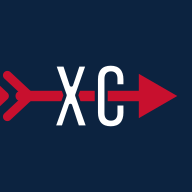
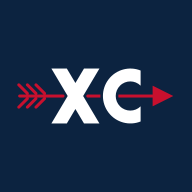
Add files via upload

Changed region(s): [[0.0, 0.3125, 0.9375, 0.6875]]

diff --git a/index.html b/index.html
@@ -97,7 +97,8 @@ button{font:inherit;color:inherit;background:none;border:none;cursor:pointer;tou
 @keyframes splLand{from{opacity:0;transform:scale(.84)}to{opacity:1;transform:scale(1)}}
 @keyframes splFade{from{opacity:0}to{opacity:1}}
 .spl-arrow{animation:splFly .78s cubic-bezier(.16,.84,.32,1) backwards}
-.spl-xc{animation:splLand .38s ease-out .66s backwards;transform-origin:128px 46px}
+/* 4.75: the new mark, XC centred at 94,36 in its 188 by 72 box. */
+.spl-xc{animation:splLand .38s ease-out .66s backwards;transform-origin:94px 36px}
 .spl-word{animation:splFade .55s ease-out 1.08s backwards}
 @media (prefers-reduced-motion:reduce){
   .spl-arrow,.spl-xc,.spl-word{animation:none}
@@ -916,14 +917,11 @@ body.haslive .sheet:not(.compact) .sheet-in{max-height:calc(88dvh - var(--striph
 </head>
 <body>
 <div id="splash">
-<svg class="spl-mark" viewBox="0 0 258 92" xmlns="http://www.w3.org/2000/svg" aria-hidden="true">
+<svg class="spl-mark" viewBox="0 0 188 72" xmlns="http://www.w3.org/2000/svg" aria-hidden="true">
 <g class="spl-arrow">
-<path d="M6 26 L24 46 L6 66" fill="none" stroke="#C8102E" stroke-width="7" stroke-linecap="round" stroke-linejoin="round"/>
-<path d="M28 26 L46 46 L28 66" fill="none" stroke="#C8102E" stroke-width="7" stroke-linecap="round" stroke-linejoin="round"/>
-<line x1="40" y1="46" x2="214" y2="46" stroke="#C8102E" stroke-width="8" stroke-linecap="round"/>
-<polygon points="212,26 252,46 212,66" fill="#C8102E"/>
+<path d="M4 23 14 33M14 23 24 33M24 23 34 33M4 49 14 39M14 49 24 39M24 49 34 39M5 36H162" fill="none" stroke="#C8102E" stroke-width="3.5" stroke-linecap="round"/><polygon points="160,24 184,36 160,48" fill="#C8102E"/>
 </g>
-<path class="spl-xc" d="M109.321 45.471999999999994 101.335 22.89999999999999H108.991L113.875 37.81599999999999H114.00699999999999L119.023 22.89999999999999H125.887L117.901 45.471999999999994L126.28299999999999 69.1H118.627L113.347 52.995999999999995H113.21499999999999L107.803 69.1H100.939Z M132.753 58.407999999999994V33.59199999999999Q132.753 28.179999999999993 135.492 25.209999999999994Q138.231 22.239999999999995 143.445 22.239999999999995Q148.659 22.239999999999995 151.398 25.209999999999994Q154.137 28.179999999999993 154.137 33.59199999999999V38.47599999999999H147.273V33.129999999999995Q147.273 28.83999999999999 143.64299999999997 28.83999999999999Q140.01299999999998 28.83999999999999 140.01299999999998 33.129999999999995V58.93599999999999Q140.01299999999998 63.16 143.64299999999997 63.16Q147.273 63.16 147.273 58.93599999999999V51.873999999999995H154.137V58.407999999999994Q154.137 63.81999999999999 151.398 66.78999999999999Q148.659 69.75999999999999 143.445 69.75999999999999Q138.231 69.75999999999999 135.492 66.78999999999999Q132.753 63.81999999999999 132.753 58.407999999999994Z" fill="#FFFFFF" stroke="#0C2340" stroke-width="2.6" stroke-linejoin="round" paint-order="stroke"/>
+<path class="spl-xc" d="M42 4H60L98 68H80Z M80 4H98L60 68H42Z M146 6.3A32 32 0 1 0 146 65.7L146 48.04A17 17 0 1 1 146 23.96Z" fill="#FFFFFF" stroke="#0C2340" stroke-width="6" stroke-linejoin="round" paint-order="stroke"/>
 </svg>
   <div class="spl-word"><div class="spl-the">THE</div><div class="spl-chute">CHUTE</div></div>
 </div>
@@ -933,7 +931,7 @@ body.haslive .sheet:not(.compact) .sheet-in{max-height:calc(88dvh - var(--striph
 <!-- SEASON AND RUNNERS, 4.57 -->
 <section class="screen" id="season">
   <div class="bar homebar">
-    <svg class="mark" viewBox="0 0 258 92" aria-hidden="true"><path d="M6 26 L24 46 L6 66" fill="none" stroke="#C8102E" stroke-width="9" stroke-linecap="round" stroke-linejoin="round"/><path d="M28 26 L46 46 L28 66" fill="none" stroke="#C8102E" stroke-width="9" stroke-linecap="round" stroke-linejoin="round"/><line x1="40" y1="46" x2="214" y2="46" stroke="#C8102E" stroke-width="10" stroke-linecap="round"/><polygon points="212,26 252,46 212,66" fill="#C8102E"/><path d="M109.321 45.471999999999994 101.335 22.89999999999999H108.991L113.875 37.81599999999999H114.00699999999999L119.023 22.89999999999999H125.887L117.901 45.471999999999994L126.28299999999999 69.1H118.627L113.347 52.995999999999995H113.21499999999999L107.803 69.1H100.939Z M132.753 58.407999999999994V33.59199999999999Q132.753 28.179999999999993 135.492 25.209999999999994Q138.231 22.239999999999995 143.445 22.239999999999995Q148.659 22.239999999999995 151.398 25.209999999999994Q154.137 28.179999999999993 154.137 33.59199999999999V38.47599999999999H147.273V33.129999999999995Q147.273 28.83999999999999 143.64299999999997 28.83999999999999Q140.01299999999998 28.83999999999999 140.01299999999998 33.129999999999995V58.93599999999999Q140.01299999999998 63.16 143.64299999999997 63.16Q147.273 63.16 147.273 58.93599999999999V51.873999999999995H154.137V58.407999999999994Q154.137 63.81999999999999 151.398 66.78999999999999Q148.659 69.75999999999999 143.445 69.75999999999999Q138.231 69.75999999999999 135.492 66.78999999999999Q132.753 63.81999999999999 132.753 58.407999999999994Z" fill="#FFFFFF" stroke="#0C2340" stroke-width="2.6" stroke-linejoin="round" paint-order="stroke"/></svg>
+    <svg class="mark" viewBox="0 0 188 72" aria-hidden="true"><path d="M4 23 14 33M14 23 24 33M24 23 34 33M4 49 14 39M14 49 24 39M24 49 34 39M5 36H162" fill="none" stroke="#C8102E" stroke-width="3.5" stroke-linecap="round"/><polygon points="160,24 184,36 160,48" fill="#C8102E"/><path d="M42 4H60L98 68H80Z M80 4H98L60 68H42Z M146 6.3A32 32 0 1 0 146 65.7L146 48.04A17 17 0 1 1 146 23.96Z" fill="#FFFFFF" stroke="#0C2340" stroke-width="6" stroke-linejoin="round" paint-order="stroke"/></svg>
     <span class="wordmark">SEASON</span>
     <span class="season"></span>
   </div>
@@ -949,7 +947,7 @@ body.haslive .sheet:not(.compact) .sheet-in{max-height:calc(88dvh - var(--striph
 </section>
 <section class="screen" id="runners">
   <div class="bar homebar">
-    <svg class="mark" viewBox="0 0 258 92" aria-hidden="true"><path d="M6 26 L24 46 L6 66" fill="none" stroke="#C8102E" stroke-width="9" stroke-linecap="round" stroke-linejoin="round"/><path d="M28 26 L46 46 L28 66" fill="none" stroke="#C8102E" stroke-width="9" stroke-linecap="round" stroke-linejoin="round"/><line x1="40" y1="46" x2="214" y2="46" stroke="#C8102E" stroke-width="10" stroke-linecap="round"/><polygon points="212,26 252,46 212,66" fill="#C8102E"/><path d="M109.321 45.471999999999994 101.335 22.89999999999999H108.991L113.875 37.81599999999999H114.00699999999999L119.023 22.89999999999999H125.887L117.901 45.471999999999994L126.28299999999999 69.1H118.627L113.347 52.995999999999995H113.21499999999999L107.803 69.1H100.939Z M132.753 58.407999999999994V33.59199999999999Q132.753 28.179999999999993 135.492 25.209999999999994Q138.231 22.239999999999995 143.445 22.239999999999995Q148.659 22.239999999999995 151.398 25.209999999999994Q154.137 28.179999999999993 154.137 33.59199999999999V38.47599999999999H147.273V33.129999999999995Q147.273 28.83999999999999 143.64299999999997 28.83999999999999Q140.01299999999998 28.83999999999999 140.01299999999998 33.129999999999995V58.93599999999999Q140.01299999999998 63.16 143.64299999999997 63.16Q147.273 63.16 147.273 58.93599999999999V51.873999999999995H154.137V58.407999999999994Q154.137 63.81999999999999 151.398 66.78999999999999Q148.659 69.75999999999999 143.445 69.75999999999999Q138.231 69.75999999999999 135.492 66.78999999999999Q132.753 63.81999999999999 132.753 58.407999999999994Z" fill="#FFFFFF" stroke="#0C2340" stroke-width="2.6" stroke-linejoin="round" paint-order="stroke"/></svg>
+    <svg class="mark" viewBox="0 0 188 72" aria-hidden="true"><path d="M4 23 14 33M14 23 24 33M24 23 34 33M4 49 14 39M14 49 24 39M24 49 34 39M5 36H162" fill="none" stroke="#C8102E" stroke-width="3.5" stroke-linecap="round"/><polygon points="160,24 184,36 160,48" fill="#C8102E"/><path d="M42 4H60L98 68H80Z M80 4H98L60 68H42Z M146 6.3A32 32 0 1 0 146 65.7L146 48.04A17 17 0 1 1 146 23.96Z" fill="#FFFFFF" stroke="#0C2340" stroke-width="6" stroke-linejoin="round" paint-order="stroke"/></svg>
     <span class="wordmark">RUNNERS</span>
     <span class="season"></span>
   </div>
@@ -977,7 +975,7 @@ body.haslive .sheet:not(.compact) .sheet-in{max-height:calc(88dvh - var(--striph
 <!-- HOME -->
 <section class="screen on" id="home">
   <div class="bar homebar">
-    <svg class="mark" viewBox="0 0 258 92" aria-hidden="true"><path d="M6 26 L24 46 L6 66" fill="none" stroke="#C8102E" stroke-width="9" stroke-linecap="round" stroke-linejoin="round"/><path d="M28 26 L46 46 L28 66" fill="none" stroke="#C8102E" stroke-width="9" stroke-linecap="round" stroke-linejoin="round"/><line x1="40" y1="46" x2="214" y2="46" stroke="#C8102E" stroke-width="10" stroke-linecap="round"/><polygon points="212,26 252,46 212,66" fill="#C8102E"/><path d="M109.321 45.471999999999994 101.335 22.89999999999999H108.991L113.875 37.81599999999999H114.00699999999999L119.023 22.89999999999999H125.887L117.901 45.471999999999994L126.28299999999999 69.1H118.627L113.347 52.995999999999995H113.21499999999999L107.803 69.1H100.939Z M132.753 58.407999999999994V33.59199999999999Q132.753 28.179999999999993 135.492 25.209999999999994Q138.231 22.239999999999995 143.445 22.239999999999995Q148.659 22.239999999999995 151.398 25.209999999999994Q154.137 28.179999999999993 154.137 33.59199999999999V38.47599999999999H147.273V33.129999999999995Q147.273 28.83999999999999 143.64299999999997 28.83999999999999Q140.01299999999998 28.83999999999999 140.01299999999998 33.129999999999995V58.93599999999999Q140.01299999999998 63.16 143.64299999999997 63.16Q147.273 63.16 147.273 58.93599999999999V51.873999999999995H154.137V58.407999999999994Q154.137 63.81999999999999 151.398 66.78999999999999Q148.659 69.75999999999999 143.445 69.75999999999999Q138.231 69.75999999999999 135.492 66.78999999999999Q132.753 63.81999999999999 132.753 58.407999999999994Z" fill="#FFFFFF" stroke="#0C2340" stroke-width="2.6" stroke-linejoin="round" paint-order="stroke"/></svg>
+    <svg class="mark" viewBox="0 0 188 72" aria-hidden="true"><path d="M4 23 14 33M14 23 24 33M24 23 34 33M4 49 14 39M14 49 24 39M24 49 34 39M5 36H162" fill="none" stroke="#C8102E" stroke-width="3.5" stroke-linecap="round"/><polygon points="160,24 184,36 160,48" fill="#C8102E"/><path d="M42 4H60L98 68H80Z M80 4H98L60 68H42Z M146 6.3A32 32 0 1 0 146 65.7L146 48.04A17 17 0 1 1 146 23.96Z" fill="#FFFFFF" stroke="#0C2340" stroke-width="6" stroke-linejoin="round" paint-order="stroke"/></svg>
     <span class="wordmark">THE CHUTE</span>
     <span class="season" id="seasonLabel"></span>
   </div>
@@ -1142,7 +1140,7 @@ body.haslive .sheet:not(.compact) .sheet-in{max-height:calc(88dvh - var(--striph
 <!-- SETTINGS -->
 <section class="screen" id="settings">
   <div class="bar homebar">
-    <svg class="mark" viewBox="0 0 258 92" aria-hidden="true"><path d="M6 26 L24 46 L6 66" fill="none" stroke="#C8102E" stroke-width="9" stroke-linecap="round" stroke-linejoin="round"/><path d="M28 26 L46 46 L28 66" fill="none" stroke="#C8102E" stroke-width="9" stroke-linecap="round" stroke-linejoin="round"/><line x1="40" y1="46" x2="214" y2="46" stroke="#C8102E" stroke-width="10" stroke-linecap="round"/><polygon points="212,26 252,46 212,66" fill="#C8102E"/><path d="M109.321 45.471999999999994 101.335 22.89999999999999H108.991L113.875 37.81599999999999H114.00699999999999L119.023 22.89999999999999H125.887L117.901 45.471999999999994L126.28299999999999 69.1H118.627L113.347 52.995999999999995H113.21499999999999L107.803 69.1H100.939Z M132.753 58.407999999999994V33.59199999999999Q132.753 28.179999999999993 135.492 25.209999999999994Q138.231 22.239999999999995 143.445 22.239999999999995Q148.659 22.239999999999995 151.398 25.209999999999994Q154.137 28.179999999999993 154.137 33.59199999999999V38.47599999999999H147.273V33.129999999999995Q147.273 28.83999999999999 143.64299999999997 28.83999999999999Q140.01299999999998 28.83999999999999 140.01299999999998 33.129999999999995V58.93599999999999Q140.01299999999998 63.16 143.64299999999997 63.16Q147.273 63.16 147.273 58.93599999999999V51.873999999999995H154.137V58.407999999999994Q154.137 63.81999999999999 151.398 66.78999999999999Q148.659 69.75999999999999 143.445 69.75999999999999Q138.231 69.75999999999999 135.492 66.78999999999999Q132.753 63.81999999999999 132.753 58.407999999999994Z" fill="#FFFFFF" stroke="#0C2340" stroke-width="2.6" stroke-linejoin="round" paint-order="stroke"/></svg>
+    <svg class="mark" viewBox="0 0 188 72" aria-hidden="true"><path d="M4 23 14 33M14 23 24 33M24 23 34 33M4 49 14 39M14 49 24 39M24 49 34 39M5 36H162" fill="none" stroke="#C8102E" stroke-width="3.5" stroke-linecap="round"/><polygon points="160,24 184,36 160,48" fill="#C8102E"/><path d="M42 4H60L98 68H80Z M80 4H98L60 68H42Z M146 6.3A32 32 0 1 0 146 65.7L146 48.04A17 17 0 1 1 146 23.96Z" fill="#FFFFFF" stroke="#0C2340" stroke-width="6" stroke-linejoin="round" paint-order="stroke"/></svg>
     <span class="wordmark">SETTINGS</span>
     <span class="season"></span>
   </div>
@@ -1378,7 +1376,7 @@ body.haslive .sheet:not(.compact) .sheet-in{max-height:calc(88dvh - var(--striph
 (function(){
 'use strict';
 
-var BUILD='v4.74';
+var BUILD='v4.75';
 var KEY='chute.v1';
 var SKEY='chute.season.v1';
 
